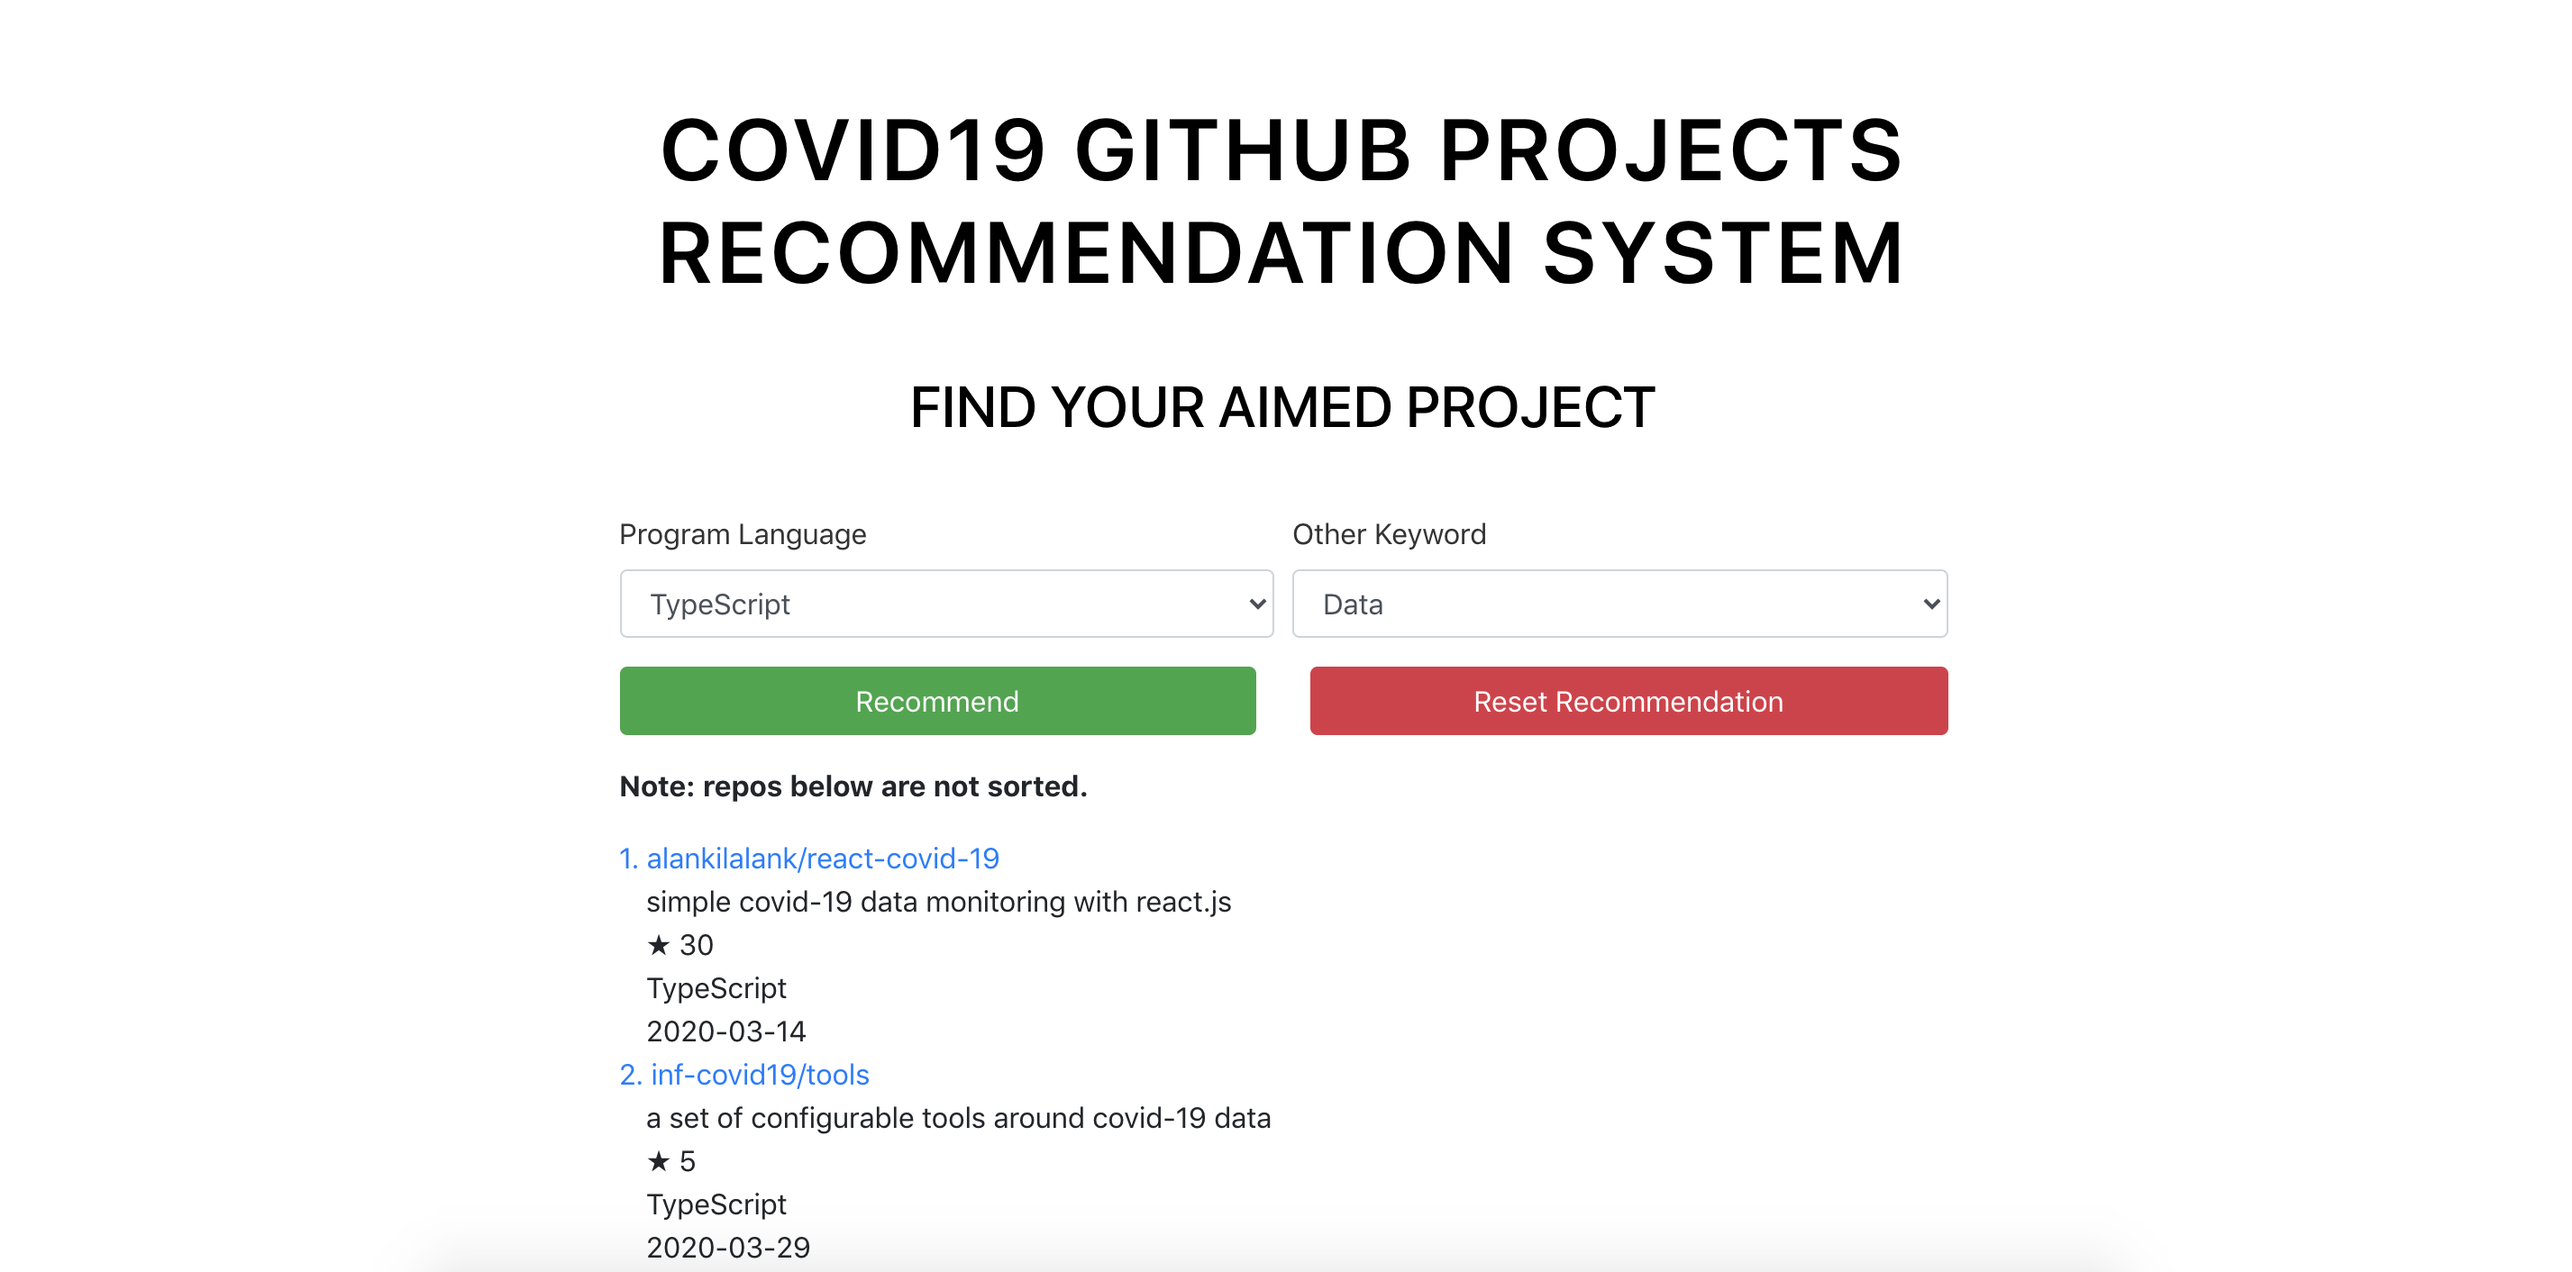
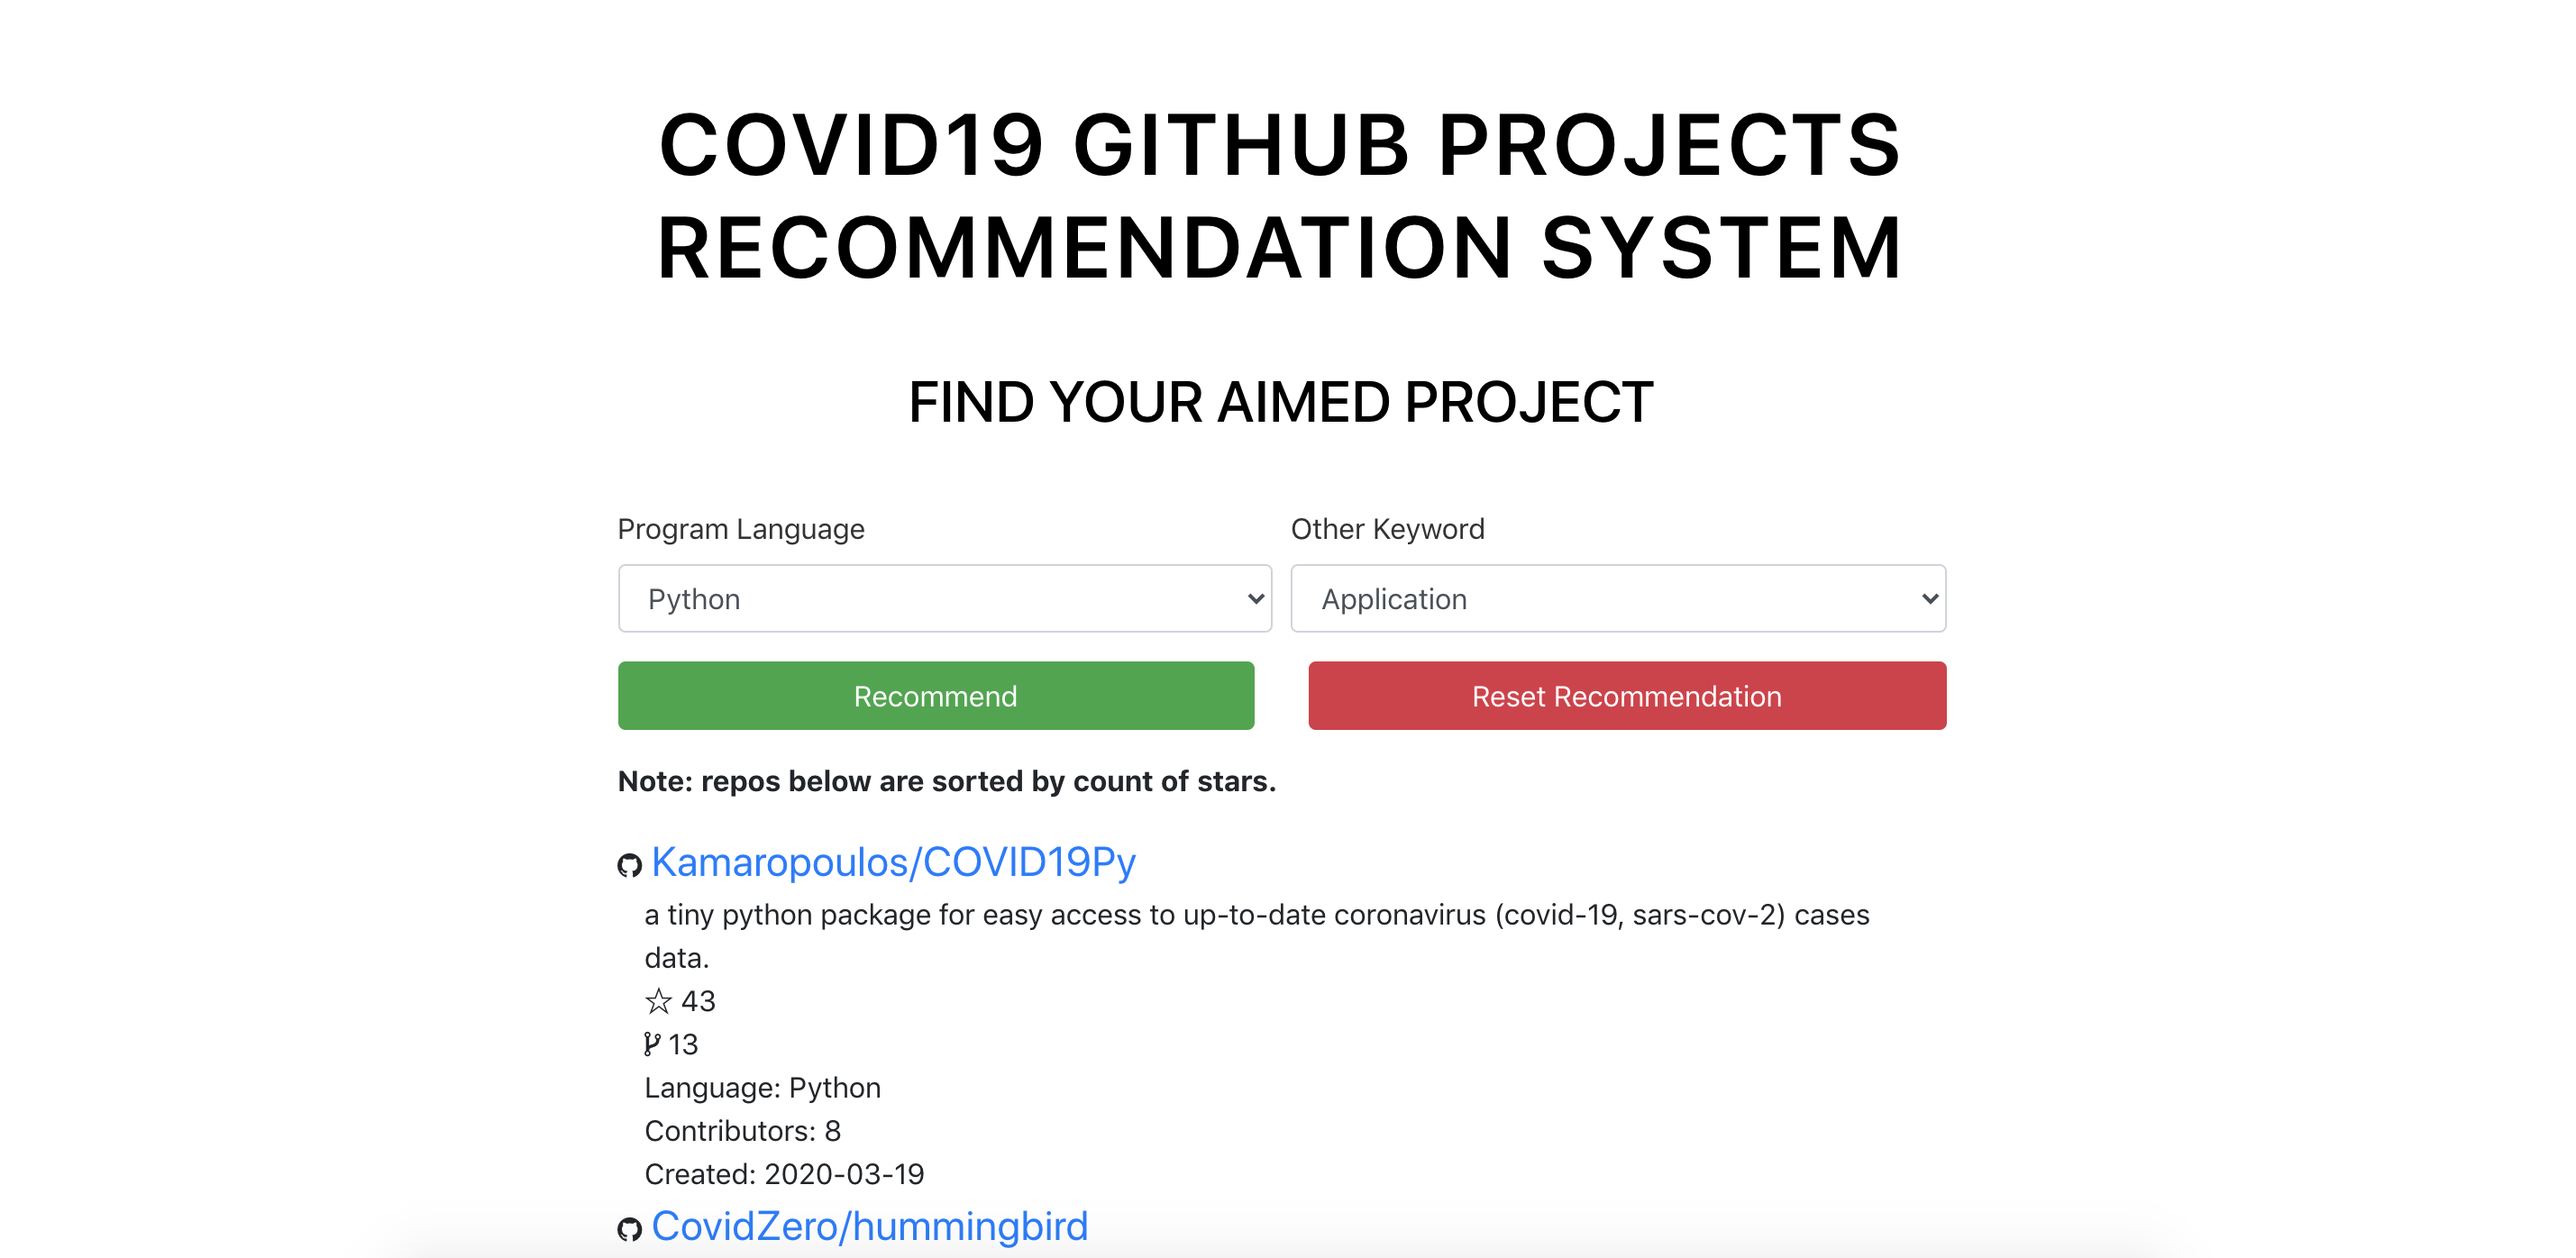
changed the result content

diff --git a/src/App.js b/src/App.js
@@ -105,19 +105,26 @@ class App extends Component {
       var obj = JSON.parse(item.replace(/\bNaN\b/g, "null"));
       recommendations.push(obj)
     });
+    
+    // sort retrived repos by the count of stars
+    recommendations.sort(function(a, b){return b.count_of_stars - a.count_of_stars}); 
     //recommendations.forEach(item => console.log(item));
+    
     
     // push things into a list and render later in the result container below
     const results = []
-    results.push(<div><p></p><b>Note: repos below are not sorted. </b><p></p></div>)
+    results.push(<div><p></p><b>Note: repos below are sorted by count of stars. </b><p></p></div>)
     for (var itemIdx = 0; itemIdx < recommendations.length; itemIdx++) {
       results.push(
         <div>
-        <a href={recommendations[itemIdx].github_repo_url} >{itemIdx+1}. {recommendations[itemIdx].owner_repo_name}</a>
+        <i class="fa fa-github" ></i>
+        <a href={recommendations[itemIdx].github_repo_url} > {recommendations[itemIdx].owner_repo_name}</a>
         <Col>{recommendations[itemIdx].repo_description}</Col> 
-        <Col><span role="img" aria-label="sheep">&#9733; </span> {recommendations[itemIdx].count_of_stars}</Col>
-        <Col>{recommendations[itemIdx].primary_language_name}</Col>
-        <Col>{recommendations[itemIdx].repo_created_day}</Col>
+        <Col><span role="img" aria-label="sheep">&#9734; </span> {recommendations[itemIdx].count_of_stars}</Col>
+        <Col> <i class="fa fa-code-fork" aria-hidden="true"></i> {recommendations[itemIdx].count_of_public_forks}</Col>
+        <Col> Language: {recommendations[itemIdx].primary_language_name}</Col>
+        <Col> Contributors: {recommendations[itemIdx].count_distinct_contributors}</Col>
+        <Col> Created: {recommendations[itemIdx].repo_created_day}</Col>
         </div>
         )
     }

diff --git a/public/index.html b/public/index.html
@@ -15,6 +15,7 @@
       user's mobile device or desktop. See https://developers.google.com/web/fundamentals/web-app-manifest/
     -->
     <link rel="manifest" href="%PUBLIC_URL%/manifest.json" />
+    <link rel="stylesheet" href="https://cdnjs.cloudflare.com/ajax/libs/font-awesome/4.7.0/css/font-awesome.min.css">
     <!--
       Notice the use of %PUBLIC_URL% in the tags above.
       It will be replaced with the URL of the `public` folder during the build.

diff --git a/src/App.css b/src/App.css
@@ -46,7 +46,7 @@ label {
   font-size: 1em;
   padding: 10px 0 0;
 }
-
+a{font-size: 20px}
 #result {
   color: #000;
 }
